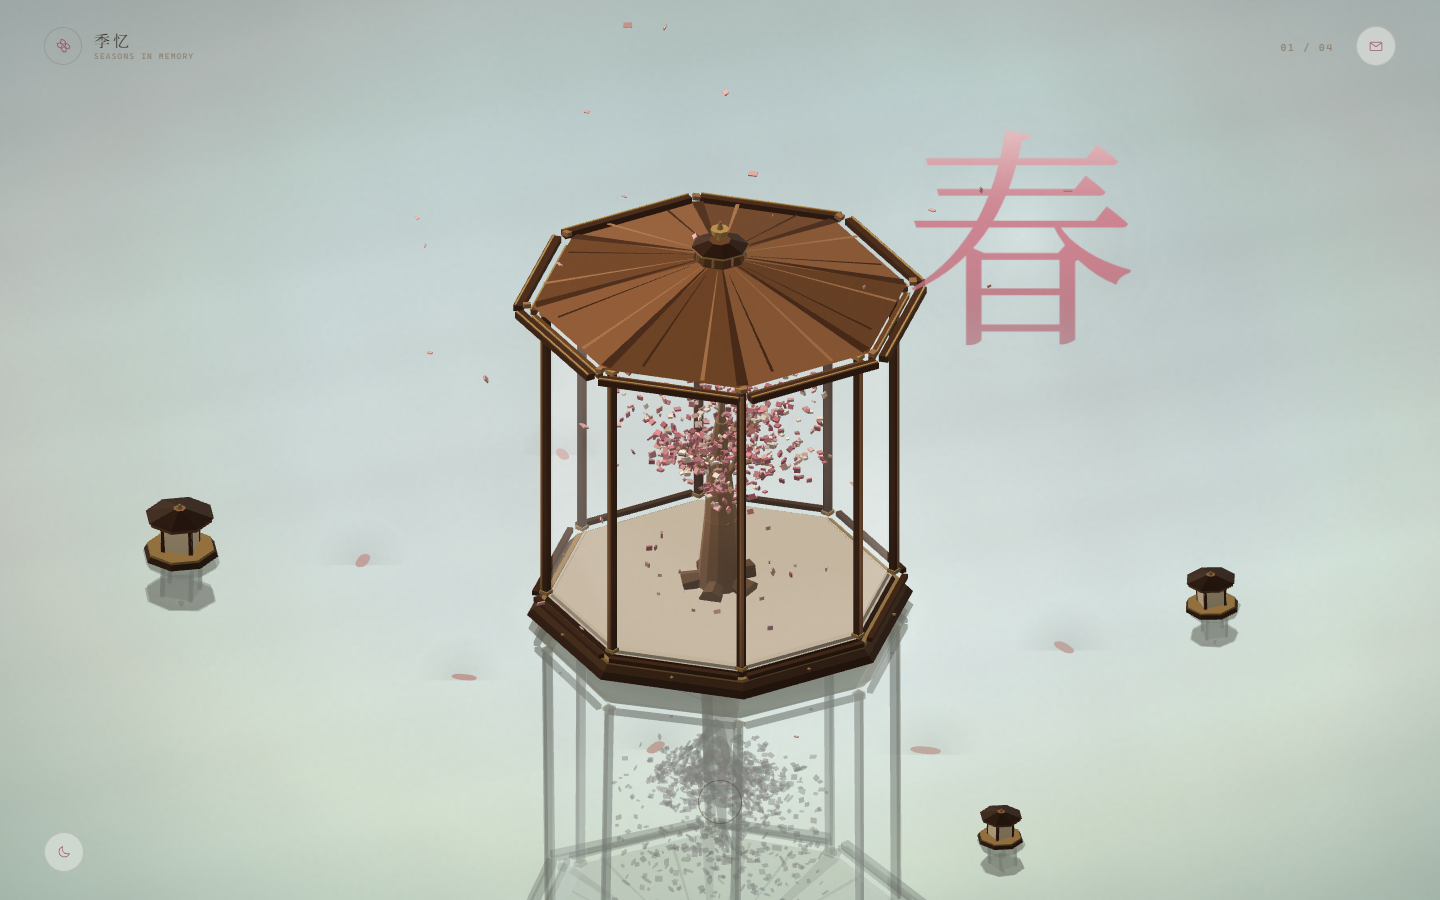
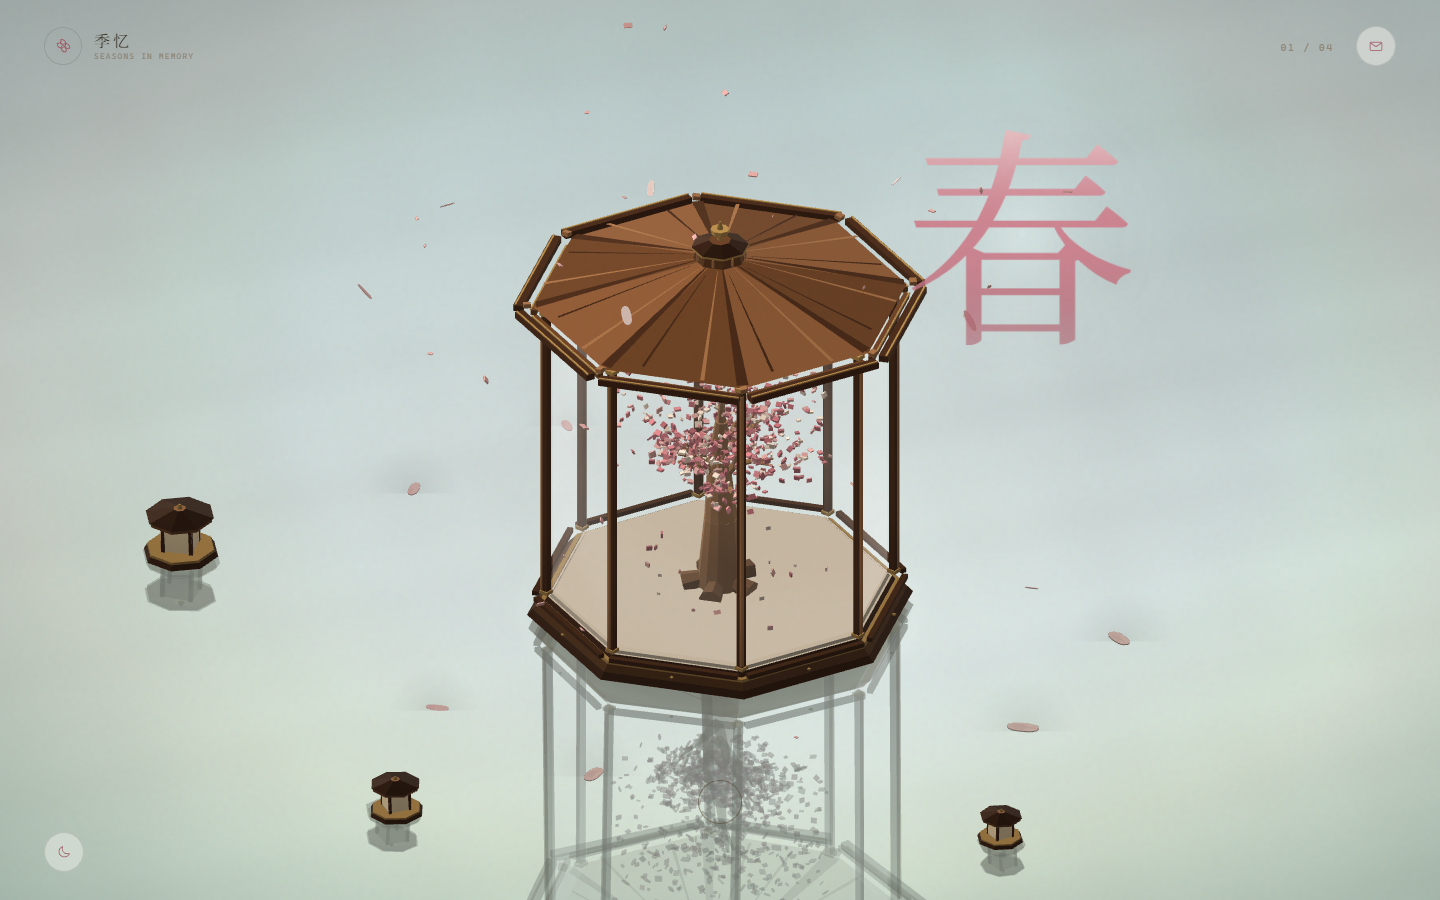
季忆 · 避开穿模、枫叶加厚、花瓣与枫叶飘落变体

diff --git a/assets/js/world.js b/assets/js/world.js
@@ -604,44 +604,66 @@
     return g;
   }
 
-  function buildFloatPetal() {
+  function buildFloatPetal(v = 0) {
     const g = Geo();
-    const center = [0, 0.02, 0];
+    const wf = 0.82 + 0.28 * v;
     const cols = [[1, 0.84, 0.88], [1, 0.9, 0.93], [0.98, 0.8, 0.86]];
     const N = 14;
-    const pts = [];
+    const top = [];
+    const bot = [];
     for (let i = 0; i < N; i++) {
       const a = (i / N) * TAU;
-      const x = Math.sin(a) * 0.12 * (0.9 + 0.1 * Math.cos(2 * a));
-      const z = -0.05 + Math.cos(a) * 0.21;
-      pts.push([x, 0.006, z]);
+      const x = Math.sin(a) * 0.12 * wf * (0.9 + 0.1 * Math.cos(2 * a));
+      const z = -0.05 + Math.cos(a) * (0.19 + 0.03 * v);
+      top.push([x, 0.01, z]);
+      bot.push([x, -0.006, z]);
     }
-    for (let i = 0; i < N; i++) pushTri(g, center, pts[i], pts[(i + 1) % N], [0, 1, 0], cols[i % 3]);
+    const cTop = [0, 0.028, 0];
+    const cBot = [0, -0.004, 0];
+    for (let i = 0; i < N; i++) {
+      const j = (i + 1) % N;
+      pushTri(g, cTop, top[i], top[j], [0, 1, 0], cols[i % 3]);
+      pushTri(g, cBot, bot[j], bot[i], [0, -1, 0], [0.7, 0.54, 0.6]);
+      pushTri(g, top[i], top[j], bot[j], [0, 0.3, 1], [0.86, 0.68, 0.74]);
+      pushTri(g, top[i], bot[j], bot[i], [0, 0.3, 1], [0.86, 0.68, 0.74]);
+    }
     return g;
   }
 
-  function buildMapleLeaf() {
+  function buildMapleLeaf(v = 0) {
     const g = Geo();
-    const center = [0, 0.02, 0];
+    const center = [0, 0.028, 0];
+    const bottom = [0, -0.008, 0];
     const cols = [[0.72, 0.45, 0.22], [0.8, 0.52, 0.26], [0.64, 0.4, 0.2]];
     const order = [-Math.PI / 6, Math.PI / 6, Math.PI / 2, (5 * Math.PI) / 6, (7 * Math.PI) / 6];
-    const pts = [];
+    const top = [];
+    const bot = [];
     for (let li = 0; li < 5; li++) {
       const a = order[li];
       const aPrev = order[(li + 4) % 5];
       const aNext = order[(li + 1) % 5];
       const aNotchL = (aPrev + a) / 2;
       const aNotchR = (a + aNext) / 2;
-      pts.push([Math.cos(aNotchL) * 0.24, 0.004, Math.sin(aNotchL) * 0.24]);
-      pts.push([Math.cos(a - 0.16) * 0.42, 0.007, Math.sin(a - 0.16) * 0.42]);
-      pts.push([Math.cos(a) * 0.55, 0.01, Math.sin(a) * 0.55]);
-      pts.push([Math.cos(a + 0.16) * 0.42, 0.007, Math.sin(a + 0.16) * 0.42]);
+      const notch = 0.23 + 0.035 * v;
+      const shoulder = 0.4 + 0.04 * v;
+      const tip = 0.52 + 0.05 * v;
+      top.push([Math.cos(aNotchL) * notch, 0.006, Math.sin(aNotchL) * notch]);
+      top.push([Math.cos(a - 0.16) * shoulder, 0.009, Math.sin(a - 0.16) * shoulder]);
+      top.push([Math.cos(a) * tip, 0.013, Math.sin(a) * tip]);
+      top.push([Math.cos(a + 0.16) * shoulder, 0.009, Math.sin(a + 0.16) * shoulder]);
     }
-    for (let i = 0; i < pts.length; i++) pushTri(g, center, pts[i], pts[(i + 1) % pts.length], [0, 1, 0], cols[i % 3]);
+    for (let i = 0; i < top.length; i++) bot.push([top[i][0], top[i][1] - 0.012, top[i][2]]);
+    for (let i = 0; i < top.length; i++) {
+      const j = (i + 1) % top.length;
+      pushTri(g, center, top[i], top[j], [0, 1, 0], cols[i % 3]);
+      pushTri(g, bottom, bot[j], bot[i], [0, -1, 0], [0.48, 0.3, 0.17]);
+      pushTri(g, top[i], top[j], bot[j], [0, 0.3, 1], [0.58, 0.36, 0.2]);
+      pushTri(g, top[i], bot[j], bot[i], [0, 0.3, 1], [0.58, 0.36, 0.2]);
+    }
     for (let k = 0; k < 5; k++) {
       const a = order[k];
-      const r = 0.42;
-      addBox(g, Math.cos(a) * r * 0.5, 0.012, Math.sin(a) * r * 0.5, 0.012, 0.005, r, hexToRgb('#7a4a28'), Math.PI / 2 - a, 0);
+      pushTri(g, center, [Math.cos(a - 0.13) * 0.36, 0.018, Math.sin(a - 0.13) * 0.36], [Math.cos(a) * 0.46, 0.018, Math.sin(a) * 0.46], [0, 1, 0], [0.52, 0.32, 0.17]);
+      pushTri(g, center, [Math.cos(a) * 0.46, 0.018, Math.sin(a) * 0.46], [Math.cos(a + 0.13) * 0.36, 0.018, Math.sin(a + 0.13) * 0.36], [0, 1, 0], [0.52, 0.32, 0.17]);
     }
     addBox(g, 0, 0.006, -0.3, 0.018, 0.008, 0.2, hexToRgb('#6e4a2c'), 0, 0);
     return g;
@@ -927,36 +949,67 @@
       { xf: 0.0, zf: 1.2, s: 1.0, phase: 4.1, rot: 2.6 },
     ];
     const lotusLeafMesh = renderer.makeMesh(buildLotusLeaf());
-    const mapleMesh = renderer.makeMesh(buildMapleLeaf());
+    const mapleMeshes = [renderer.makeMesh(buildMapleLeaf(0)), renderer.makeMesh(buildMapleLeaf(1))];
     const iceMesh = renderer.makeMesh(buildIcePatch());
-    const floatPetalMesh = renderer.makeMesh(buildFloatPetal());
+    const floatPetalMeshes = [renderer.makeMesh(buildFloatPetal(0)), renderer.makeMesh(buildFloatPetal(1))];
     const floatLeafMesh = renderer.makeMesh(buildFloatLeaf());
     const blossomMesh = renderer.makeMesh(buildBlossom());
+    const fallers = [];
+    for (let i = 0; i < 7; i++) {
+      const a = (i / 7) * TAU + 0.3;
+      const r = 4.2 + (i % 3) * 0.5;
+      fallers.push({
+        kind: 0,
+        x: Math.cos(a) * r,
+        z: Math.sin(a) * r,
+        phase: i * 0.157,
+        speed: 0.05 + 0.01 * (i % 3),
+        size: 0.48 + 0.09 * (i % 3),
+        rot: i * 0.9,
+        tint: [[1, 0.86, 0.9], [1, 0.92, 0.94], [1, 0.8, 0.86]][i % 3],
+        v: i % 2,
+      });
+    }
+    for (let i = 0; i < 7; i++) {
+      const a = (i / 7) * TAU + 0.8;
+      const r = 4.2 + (i % 3) * 0.5;
+      fallers.push({
+        kind: 1,
+        x: Math.cos(a) * r,
+        z: Math.sin(a) * r,
+        phase: i * 0.173,
+        speed: 0.045 + 0.01 * (i % 3),
+        size: 0.52 + 0.09 * (i % 3),
+        rot: i * 1.1,
+        tint: [[1, 0.8, 0.62], [1, 0.72, 0.54], [1, 0.9, 0.74]][i % 3],
+        v: i % 2,
+      });
+    }
     const decos = {
       spring: [
-        { t: 'float', x: -4.2, z: 1.8, rot: 0.4, s: 0.8, tint: [1, 0.86, 0.9] },
-        { t: 'float', x: 4.2, z: 1.2, rot: 2.0, s: 0.9, tint: [1, 0.92, 0.94] },
-        { t: 'float', x: -4.0, z: -1.8, rot: 4.2, s: 0.7, tint: [1, 0.8, 0.86] },
-        { t: 'float', x: 4.0, z: -1.8, rot: 1.3, s: 0.85, tint: [1, 0.9, 0.92] },
-        { t: 'float', x: -1.4, z: 3.4, rot: 5.1, s: 0.75, tint: [1, 0.84, 0.88] },
-        { t: 'float', x: 1.6, z: 3.2, rot: 3.3, s: 0.8, tint: [1, 0.88, 0.9] },
+        { t: 'float', x: -4.8, z: 0.0, rot: 0.4, s: 0.8, tint: [1, 0.86, 0.9] },
+        { t: 'float', x: 4.8, z: 0.0, rot: 2.0, s: 0.9, tint: [1, 0.92, 0.94] },
+        { t: 'float', x: -4.4, z: -2.4, rot: 4.2, s: 0.7, tint: [1, 0.8, 0.86] },
+        { t: 'float', x: 4.4, z: -2.4, rot: 1.3, s: 0.85, tint: [1, 0.9, 0.92] },
+        { t: 'float', x: -1.2, z: 4.2, rot: 5.1, s: 0.75, tint: [1, 0.84, 0.88] },
+        { t: 'float', x: 1.4, z: 4.2, rot: 3.3, s: 0.8, tint: [1, 0.88, 0.9] },
       ],
       summer: [
-        { t: 'leaf', x: -4.2, z: 1.8, rot: 0.2, s: 1.3 },
-        { t: 'leaf', x: 4.2, z: 1.2, rot: 1.8, s: 1.15 },
-        { t: 'leaf', x: -4.0, z: -1.8, rot: 3.2, s: 1.0 },
-        { t: 'flower', x: 4.0, z: -1.8, rot: 1.0, s: 1.25 },
+        { t: 'leaf', x: -4.8, z: 0.0, rot: 0.2, s: 1.3 },
+        { t: 'leaf', x: 4.8, z: 0.0, rot: 1.8, s: 1.15 },
+        { t: 'leaf', x: -4.4, z: -2.4, rot: 3.2, s: 1.0 },
+        { t: 'flower', x: 4.4, z: -2.4, rot: 1.0, s: 1.25 },
       ],
       autumn: [
-        { t: 'maple', x: -4.2, z: 1.8, rot: 0.3, s: 1.15, tint: [1, 0.8, 0.62] },
-        { t: 'maple', x: 4.2, z: 1.2, rot: 2.1, s: 1.0, tint: [1, 0.72, 0.54] },
-        { t: 'maple', x: -4.0, z: -1.8, rot: 4.0, s: 1.1, tint: [1, 0.9, 0.74] },
-        { t: 'maple', x: 4.0, z: -1.8, rot: 1.2, s: 0.95, tint: [1, 0.84, 0.66] },
+        { t: 'maple', x: -4.8, z: 0.0, rot: 0.3, s: 1.15, tint: [1, 0.8, 0.62] },
+        { t: 'maple', x: 4.8, z: 0.0, rot: 2.1, s: 1.0, tint: [1, 0.72, 0.54] },
+        { t: 'maple', x: -4.4, z: -2.4, rot: 4.0, s: 1.1, tint: [1, 0.9, 0.74] },
+        { t: 'maple', x: 4.4, z: -2.4, rot: 1.2, s: 0.95, tint: [1, 0.84, 0.66] },
       ],
       winter: [
-        { t: 'ice', x: -4.2, z: 1.8, rot: 0.4, s: 1.3 },
-        { t: 'ice', x: 4.2, z: 1.2, rot: 1.6, s: 1.1 },
-        { t: 'ice', x: -4.0, z: -1.8, rot: 3.0, s: 1.2 },
+        { t: 'ice', x: -4.8, z: 0.0, rot: 0.4, s: 1.3 },
+        { t: 'ice', x: 4.8, z: 0.0, rot: 1.6, s: 1.1 },
+        { t: 'ice', x: -4.4, z: -2.4, rot: 3.0, s: 1.2 },
       ],
     };
 
@@ -1453,6 +1506,8 @@
       const summerPal = PALETTES[1];
       const flowerTint = [1, 0.68, 0.76];
       const wSummer = i0 === 1 ? 1 - f : (i1 === 1 ? f : 0);
+      const wSpring = i0 === 0 ? 1 - f : (i1 === 0 ? f : 0);
+      const wAutumn = i0 === 2 ? 1 - f : (i1 === 2 ? f : 0);
 
       const drawLotusFlower = (d, w, refl) => {
         const x = d.x * dxs;
@@ -1522,13 +1577,13 @@
           if (d.t === 'blossom') {
             mesh = blossomMesh; tint = d.tint; mix = 1; op = w * 0.95 * ease;
           } else if (d.t === 'float') {
-            mesh = floatPetalMesh; tint = d.tint; mix = 1; op = w * 0.92 * ease;
+            mesh = floatPetalMeshes[di % 2]; tint = d.tint; mix = 1; op = w * 0.92 * ease;
           } else if (d.t === 'leaf2') {
             mesh = floatLeafMesh; tint = d.tint; mix = 0.45; op = w * 0.94 * ease;
           } else if (d.t === 'leaf') {
             mesh = lotusLeafMesh; op = w * 0.94 * ease;
           } else if (d.t === 'maple') {
-            mesh = mapleMesh; tint = d.tint; mix = 0.5; op = w * 0.94 * ease;
+            mesh = mapleMeshes[di % 2]; tint = d.tint; mix = 0.5; op = w * 0.94 * ease;
           }
           renderer.drawMesh(mesh, matA, { tint, tintMix: mix, opacity: op });
         }
@@ -1566,6 +1621,25 @@
         const flower = decos.summer.find((x) => x.t === 'flower');
         if (flower) drawLotusFlower(flower, wSummer, false);
       }
+
+      // falling petals (spring) / maple leaves (autumn)
+      const drawFallers = (kind, weight) => {
+        if (weight < 0.02) return;
+        for (let fi = 0; fi < fallers.length; fi++) {
+          const f = fallers[fi];
+          if (f.kind !== kind) continue;
+          const cyc = (wt * f.speed + f.phase) % 1;
+          const y = 8.2 * (1 - cyc) + 0.2;
+          const x = f.x + Math.sin(wt * 0.45 + f.phase * 6.28) * 0.45;
+          const z = f.z + Math.cos(wt * 0.4 + f.phase * 6.28) * 0.4;
+          m4.compose(matA, x, y, z, f.rot + wt * 0.6, Math.sin(wt * 0.8 + f.phase * 6.28) * 0.9, Math.cos(wt * 0.7 + f.phase * 6.28) * 0.7, f.size, f.size, f.size);
+          renderer.drawMesh(kind === 0 ? floatPetalMeshes[f.v] : mapleMeshes[f.v], matA, {
+            tint: f.tint, tintMix: kind === 0 ? 1 : 0.55, opacity: weight * 0.92,
+          });
+        }
+      };
+      drawFallers(0, wSpring);
+      drawFallers(1, wAutumn);
 
       // actual lantern above the water
       for (let si = 0; si < smalls.length; si++) {

diff --git a/README.md b/README.md
@@ -77,7 +77,7 @@ npx serve .
 - **摘盖**：每圈开花时，玻璃罩（屋顶 + 木柱 + 玻璃）在抬升的同时轻微向右后方漂移并旋转，配合同一条平滑曲线，摘盖过程更连贯。
 - **水面**：四层不同方向/速度的风波 + 两层细毛细波 + 慢涌 + 噪声阵风，形成大小不一的斑块和高光；微波动画持续，不受季节定格冻结。
 - **写实涟漪**：下沉时水面出现**细同心环**——它们只扰动水面的法线/明暗与局部高光，不是叠加的白色光圈；圈数收敛到 2–3 圈，从浮板边向外扩散，先变宽再减速，在约 7 秒内平滑淡出。
-- **季节水景**：春有 6 片小花瓣（手机 3 片）；夏有 3 片圆荷叶 + 1 朵更大的粉荷、细茎；秋有 4 片枫叶；冬有 3 块薄冰。同一组锚点换季，用缩放 + 淡入淡出过渡。花瓣、叶子、荷叶、冰片都是带弧度或厚度的 3D 网格，平贴水面漂浮，不是零厚度贴图；每片有缓慢漂移、上下起伏、左右摆动和轻微倾斜，并带柔和接触阴影；荷花有倒影。
+- **季节水景**：春有 6 片小花瓣（手机 3 片）并有花瓣飘落；夏有 3 片圆荷叶 + 1 朵更大的粉荷、细茎；秋有 4 片厚枫叶并有枫叶飘落；冬有 3 块薄冰。花瓣/枫叶各做 2 种形状变体，掉落物大小、颜色、旋转、速度都不同；水面装饰移开三盏水灯，换季用同锚点缩放 + 淡入淡出。花瓣、叶子、荷叶、冰片都是带弧度或厚度的 3D 网格，平贴水面漂浮，不是零厚度贴图；每片有缓慢漂移、上下起伏、左右摆动和轻微倾斜，并带柔和接触阴影；荷花有倒影。
 - **花**：**每转满一圈开一次**。没有大「花」字；树干淡出，花从浮板上长出细绿色花茎和四片叶子；花瓣比之前略小。继续转动，花收回、树恢复。
 - **季节字**：从亭子内部向上升约 2.2 单位，透明度 0→0.98；位置上移到 0.24 / 0.30（桌面 / 手机）；白天用干净的深色季节渐变 + 柔和光晕，避免和浅色背景混在一起；阴影压到 0.035。
 - **夜间**：没有左上角光源；灯笼内部变亮，成为唯一主光；水灯、荷花、萤火和少量星点一起发光。
@@ -137,6 +137,7 @@ four-seasons/
 - 页面无网络请求；`docs/` 仅是预览图。
 - 字体：Noto Serif SC 子集，SIL Open Font License 1.1。
 - 支持 `prefers-reduced-motion`。
+
 
 
 
